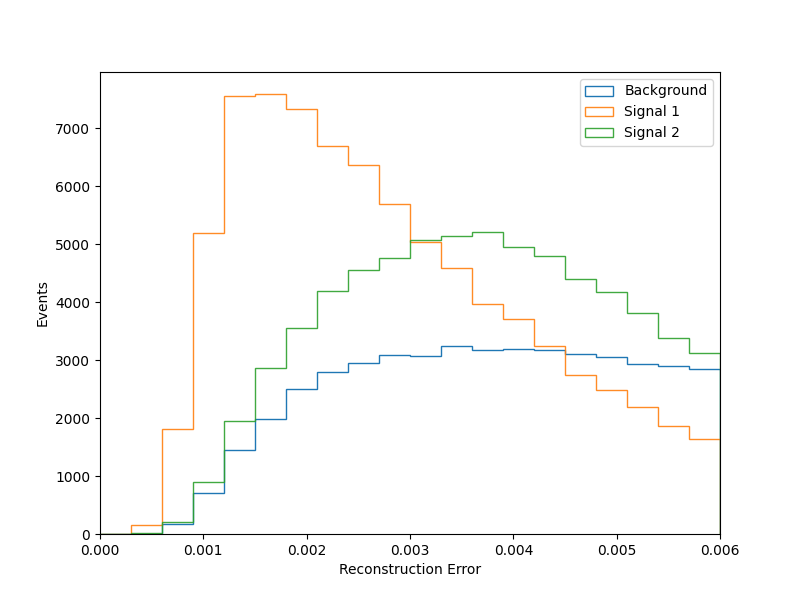
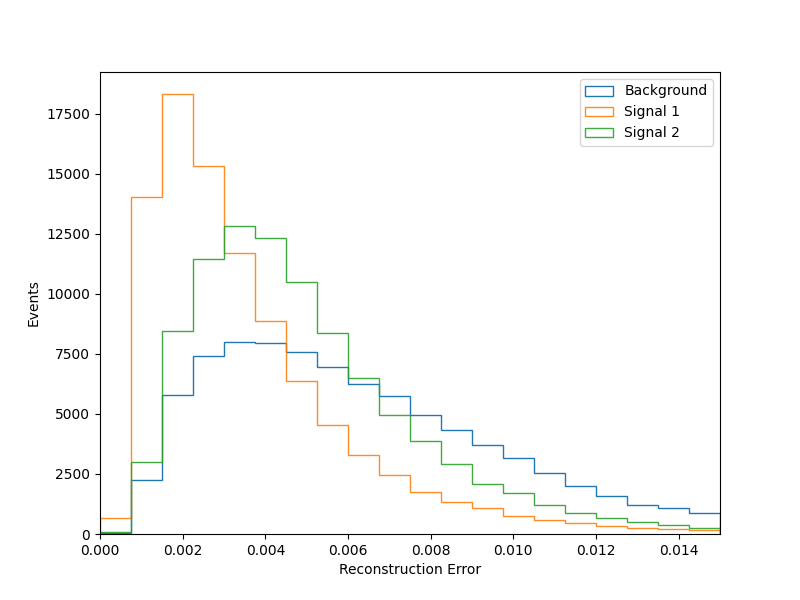
Testing with minmax scaling and 21, 14 layer dimensions

diff --git a/test.py b/test.py
@@ -127,12 +127,12 @@ loss_sig2_total = loss_sig2.sum(axis=1) / 42
 # Plot Total Reconstruction Error
 nbins = 20
 fig, axes = plt.subplots(figsize=(8,6))
-axes.hist([loss_bkg_total], nbins, range=(0, 0.02), density=0, histtype='step', label=['Background'], stacked=True, alpha=1)
-axes.hist([loss_sig1_total], nbins, range=(0, 0.02), density=0, histtype='step', label=['Signal 1'], stacked=True, alpha=0.9)
-axes.hist([loss_sig2_total], nbins, range=(0, 0.02), density=0, histtype='step', label=['Signal 2'], stacked=True, alpha=0.9)
+axes.hist([loss_bkg_total], nbins, range=(0, 0.015), density=0, histtype='step', label=['Background'], stacked=True, alpha=1)
+axes.hist([loss_sig1_total], nbins, range=(0, 0.015), density=0, histtype='step', label=['Signal 1'], stacked=True, alpha=0.9)
+axes.hist([loss_sig2_total], nbins, range=(0, 0.015), density=0, histtype='step', label=['Signal 2'], stacked=True, alpha=0.9)
 axes.set_xlabel(r"Reconstruction Error")
 axes.set_ylabel("Events")
-axes.set_xlim(0, 0.02)
+axes.set_xlim(0, 0.015)
 axes.legend(loc='upper right')
 fig.savefig(f"figs/testing/reconstruction_error_{scale}_{mid_dim}_{latent_dim}.png")
 
